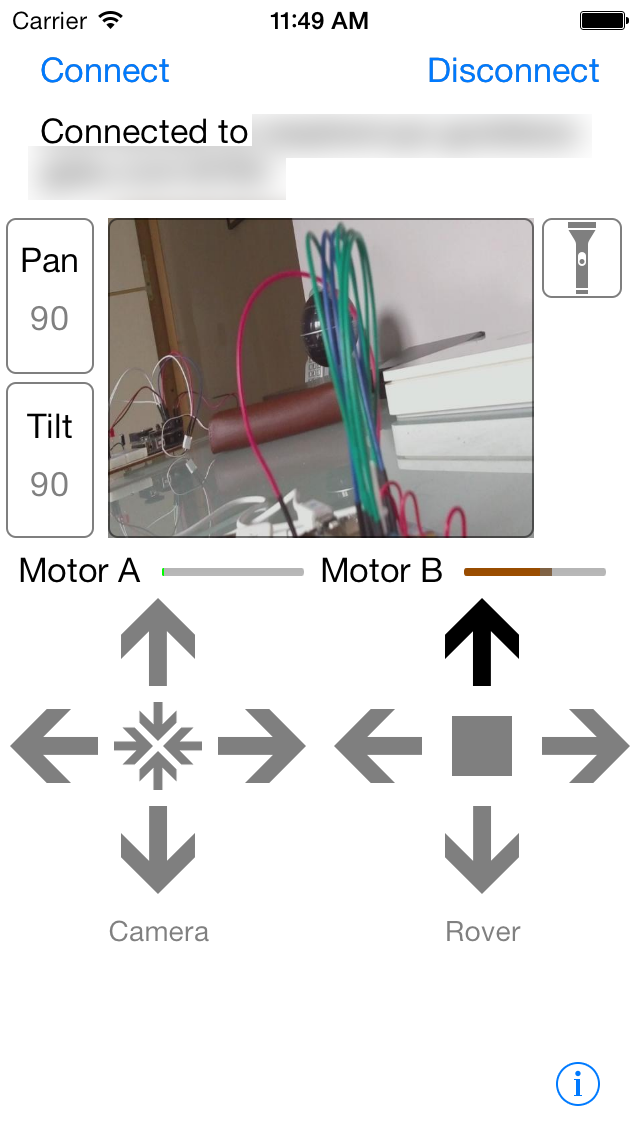
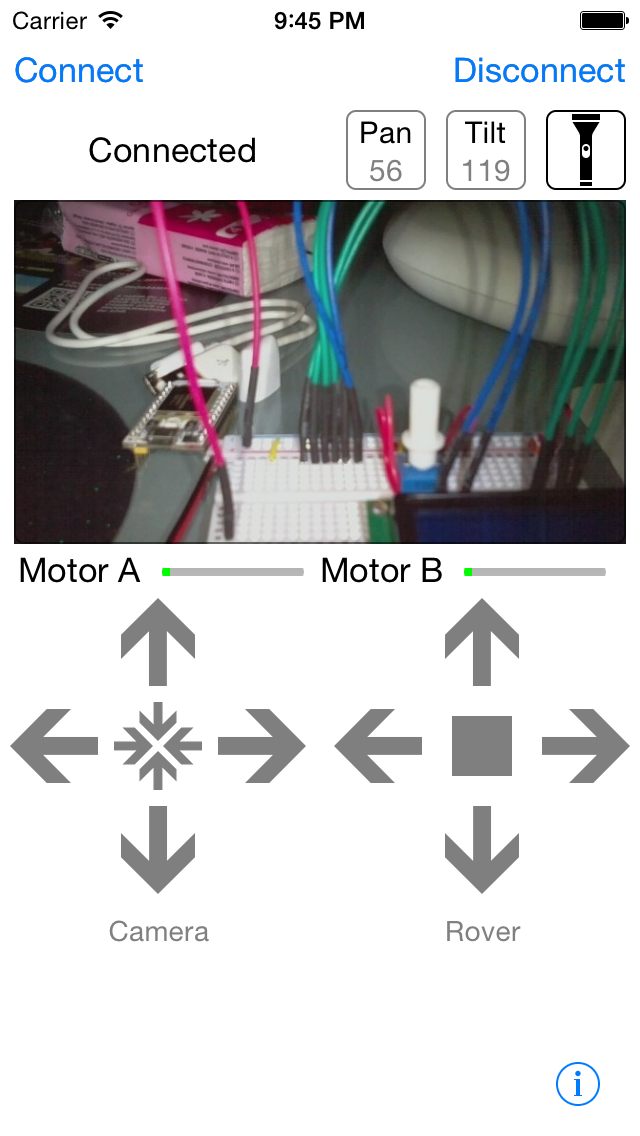
Use 16/9 ratio for video capture, to avoid distortion

diff --git a/iOS/RaspiDuinoRemote/RaspiDuinoRemote/ViewController.m b/iOS/RaspiDuinoRemote/RaspiDuinoRemote/ViewController.m
@@ -191,7 +191,7 @@
     [self initNetworkCommunication];
     _connectInProgress = YES;
     
-    [self.status setText:@"Connection in progress…"];
+    [self.status setText:@"Connecting…"];
     [self performSelectorInBackground:@selector(waitForConnection:) withObject:nil];
     
     if ([_currentMjpegUrl length] > 0) {
@@ -260,14 +260,14 @@
         // Connect to RaspiDuinoRover server
         
         while (([_outputStream streamStatus] != NSStreamStatusOpen && [_outputStream streamStatus] != NSStreamStatusError) && _connectInProgress) {
-            [self.status performSelectorOnMainThread:@selector(setText:) withObject:@"Connection in progress…" waitUntilDone:YES];
+            [self.status performSelectorOnMainThread:@selector(setText:) withObject:@"Connecting…" waitUntilDone:YES];
         }
         if ([_outputStream streamStatus] == NSStreamStatusOpen) {
-            [self.status performSelectorOnMainThread:@selector(setText:) withObject:[NSString stringWithFormat:@"Connected to %@:%@", _currentHost, _currentPort] waitUntilDone:YES];
+            [self.status performSelectorOnMainThread:@selector(setText:) withObject:@"Connected" waitUntilDone:YES];
         } else if ([_outputStream streamStatus] == NSStreamStatusError) {
-            [self.status performSelectorOnMainThread:@selector(setText:) withObject:@"Could not connect to RaspiDuinoRover" waitUntilDone:YES];
+            [self.status performSelectorOnMainThread:@selector(setText:) withObject:@"Unable to connect" waitUntilDone:YES];
         } else {
-            [self.status performSelectorOnMainThread:@selector(setText:) withObject:@"Not connected to RaspiDuinoRover" waitUntilDone:YES];
+            [self.status performSelectorOnMainThread:@selector(setText:) withObject:@"Not connected" waitUntilDone:YES];
         }
     }
 }
